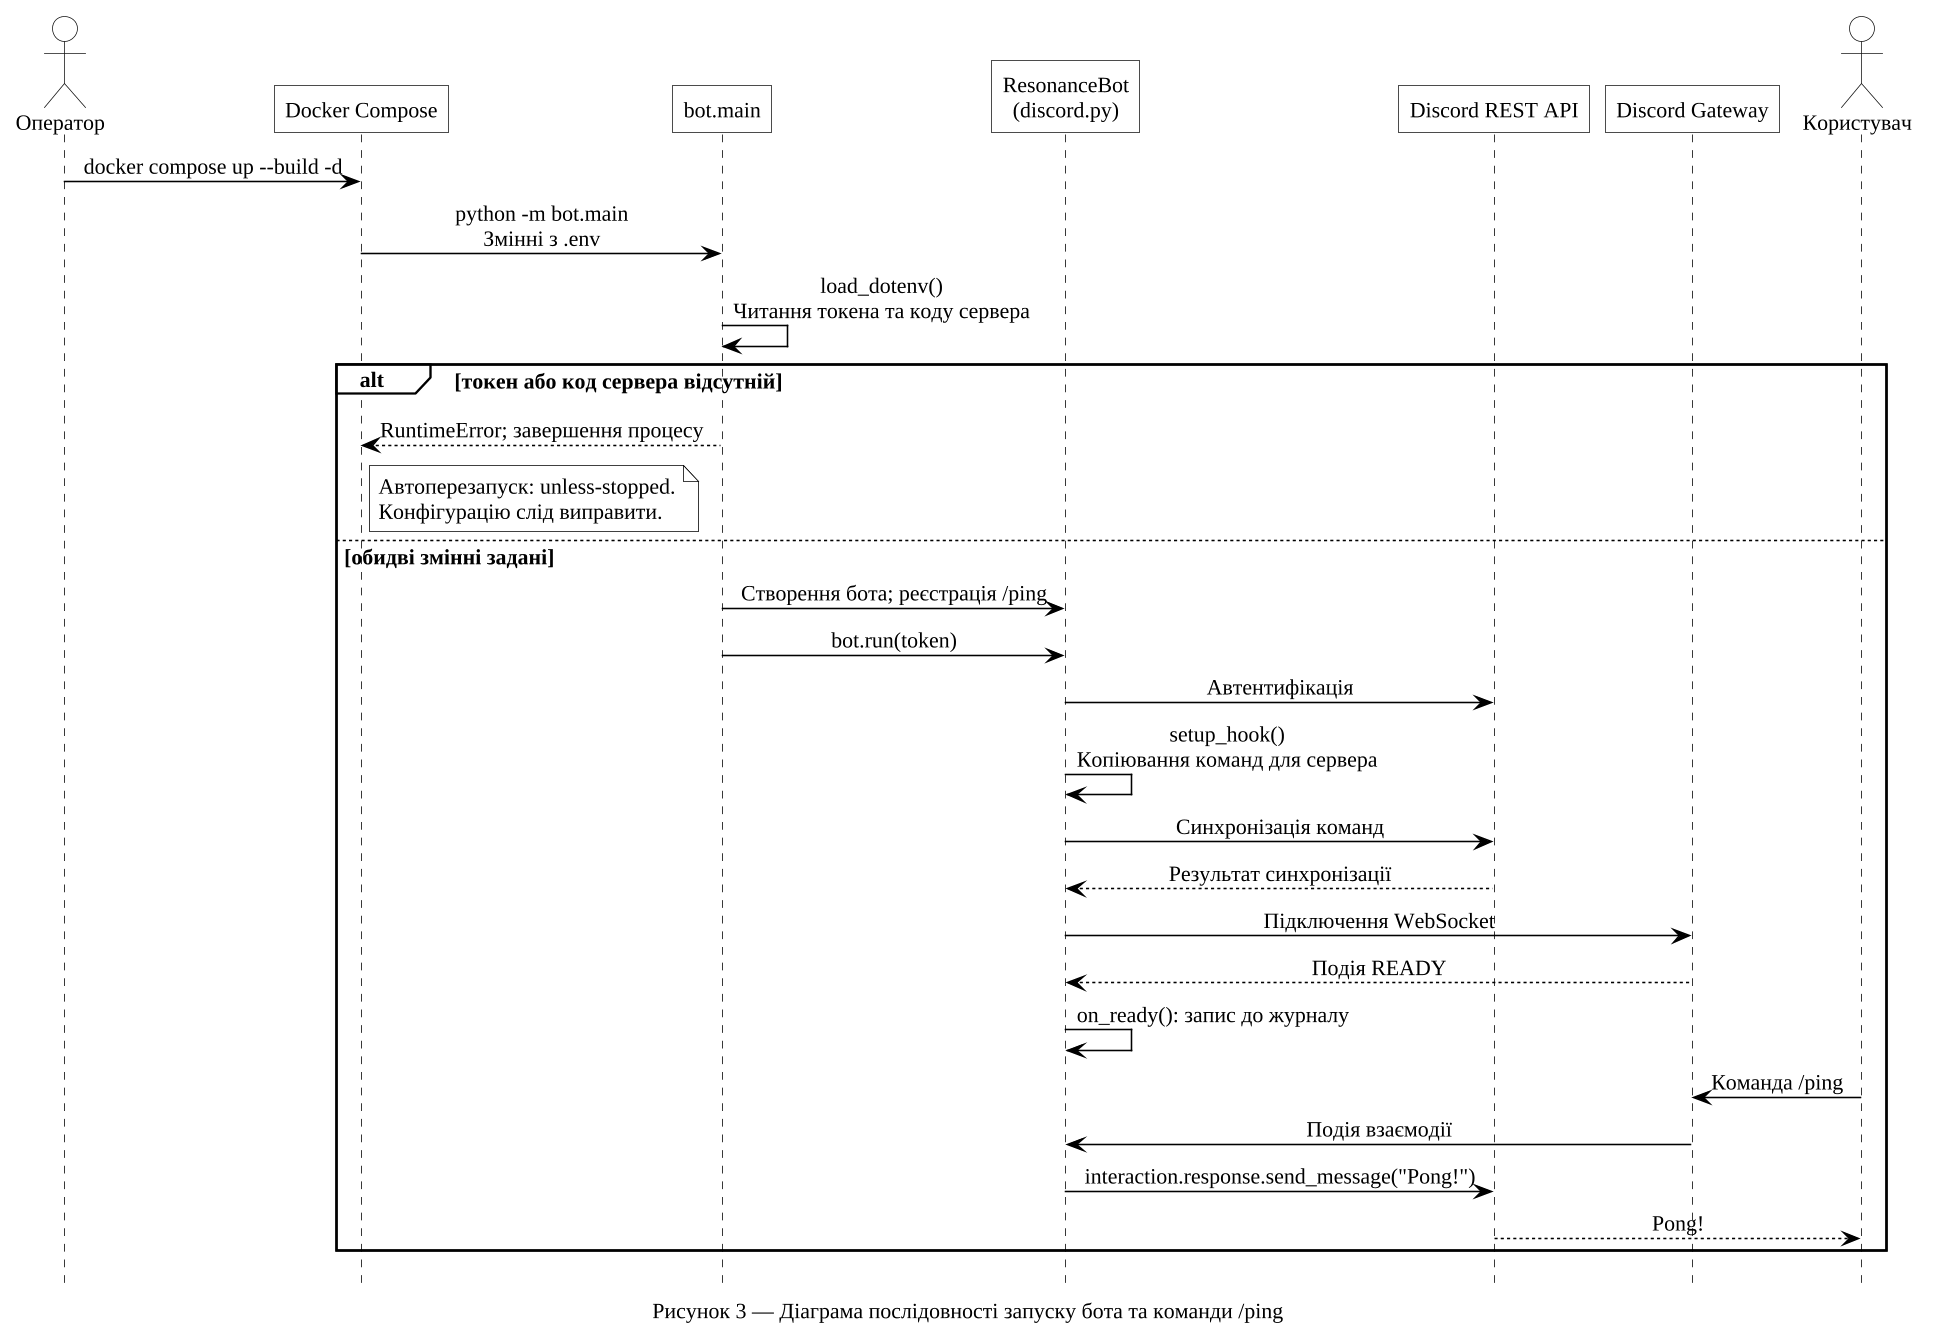
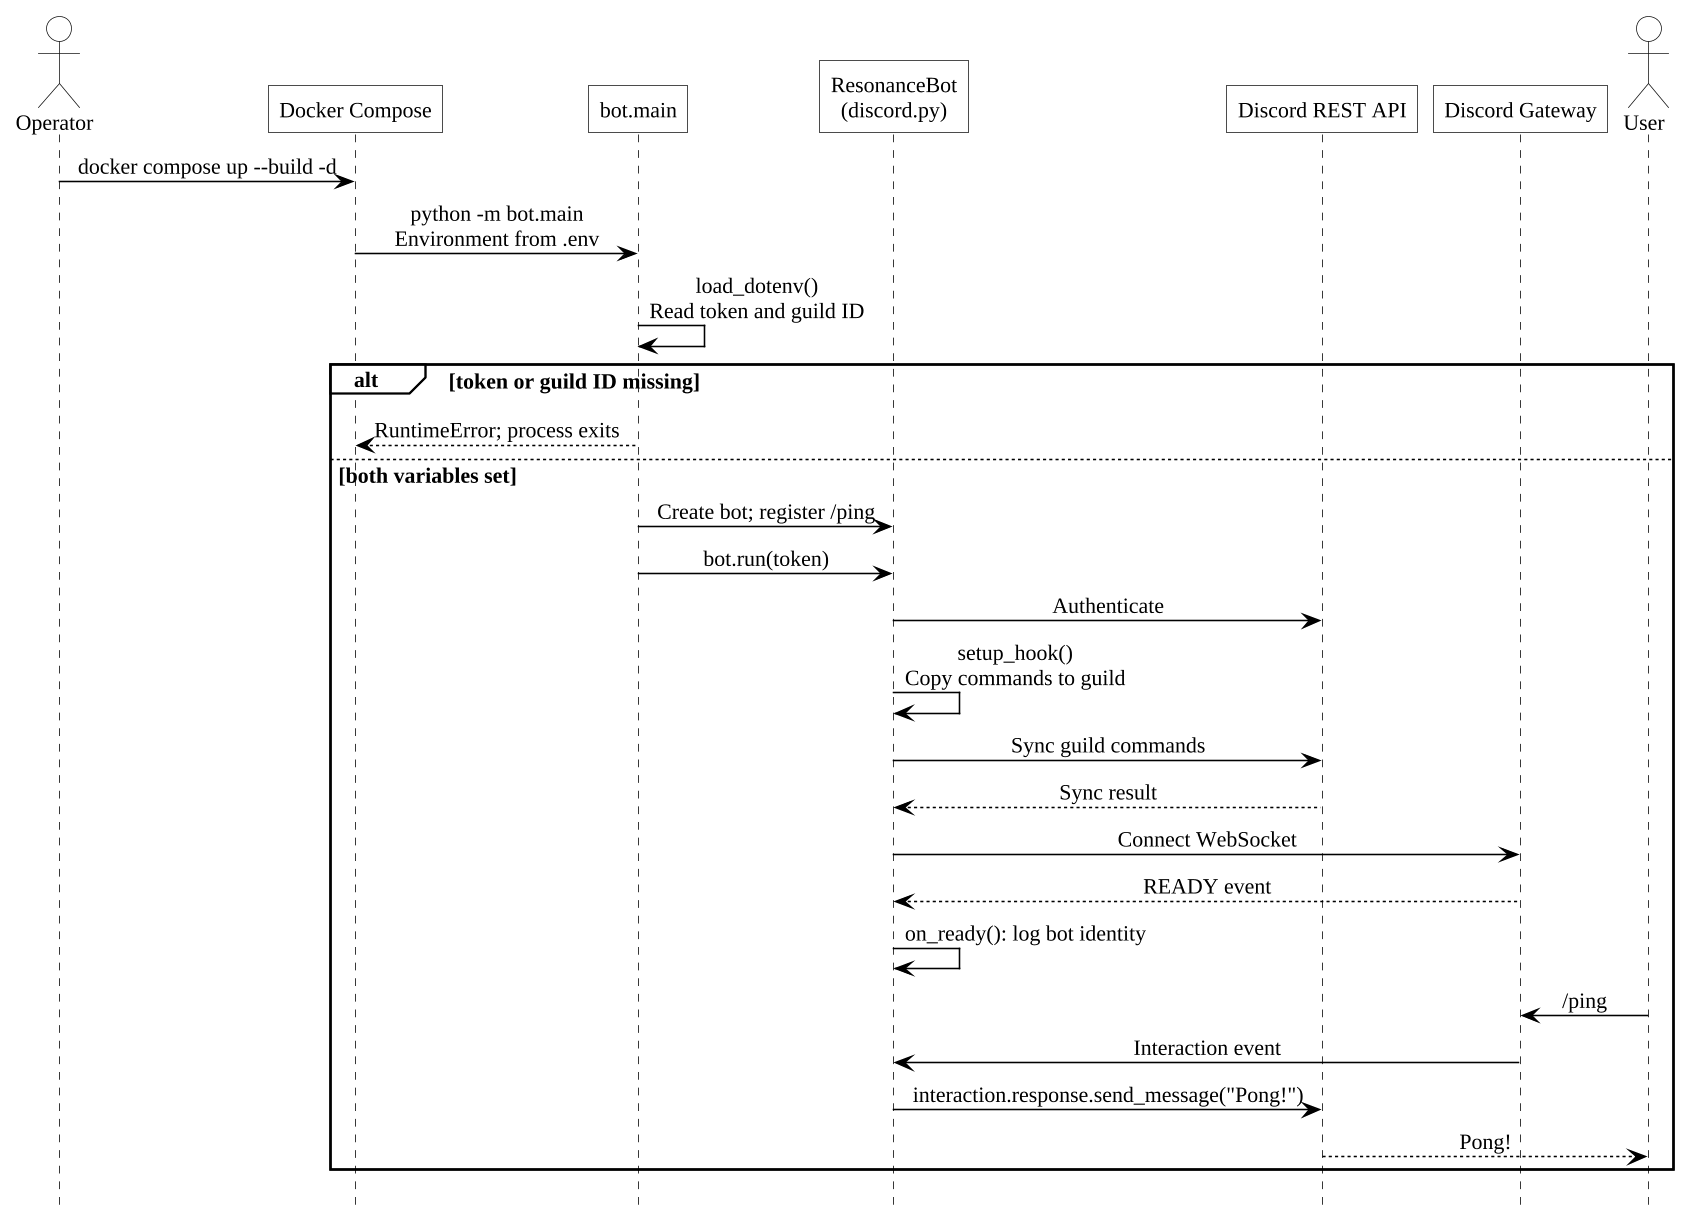
docs: use English UML labels and remove image annotations

diff --git a/docs/README.md b/docs/README.md
@@ -21,20 +21,11 @@ The container uses the actual entry point `python -m bot.main`, rather than the 
 
 Playback, file discovery, persistence services, recommendation algorithms, and CSV export remain planned. The context proposes separate listening sessions/events, but PR #26 currently stores one track playback per `listening_sessions` row. The diagram preserves the SQL branch's current design. Listening attribution, accepted recommendation semantics, evaluation dataset, and SQLCipher driver/key handling remain team decisions. No optional ChromaDB dependency is added.
 
-## Оформлення за ДСТУ
+## Diagram presentation
 
-Для оформлення рисунків застосовано [ДСТУ 3008:2015, розділ 7.5](https://itt-its.kpi.ua/wp-content/uploads/2023/10/dstu_3008-2015.pdf). Нотацію UML збережено; стандарт регламентує оформлення рисунків у звіті. Наскрізна нумерація 1–4 відповідає п. 7.5.6, а стислі назви під зображенням по центру — п. 7.5.9. Пояснення умовних познак розміщено перед підписом рисунка. Усі PNG містять підпис.
+The PNGs contain only UML elements and English labels. Figure captions, numbering, legends, and explanatory notes are excluded from the images. Add figure captions in the report document so they follow its numbering and formatting. Shared print styling (white background, black lines, Liberation Serif) is defined in `diagram-style.iuml`, which must remain beside the `.puml` files during rendering.
 
-Українські пояснення, біле тло, чорні лінії без тіней і шрифт Liberation Serif обрано для однакового друкованого оформлення. Це рішення проєкту: стандарт допускає як чорно-білі, так і кольорові рисунки. Ідентифікатори коду, таблиць та полів залишено мовою реалізації.
-
-1. Рисунок 1 — Діаграма розгортання Resonance.
-2. Рисунок 2 — Діаграма компонентів Resonance.
-3. Рисунок 3 — Діаграма послідовності запуску бота та команди /ping.
-4. Рисунок 4 — Діаграма класів структури бази даних Resonance.
-
-Під час включення до звіту рисунок слід розміщувати після першого посилання на нього або на найближчій наступній сторінці (п. 7.5.2), на одному аркуші А4 (п. 7.5.5, 7.5.10). Для широких схем оберіть альбомну орієнтацію й перевірте читабельність після масштабування. Не додавайте другий підпис, якщо він уже є у PNG. Якщо рисунки вставляються в розділ чи додаток із власною нумерацією, змініть `caption` у `.puml` та перекомпілюйте. Остаточне розміщення й нумерацію узгоджують із повним звітом та методичними вимогами кафедри.
-
-Спільне оформлення визначено у `diagram-style.iuml`; цей файл має залишатися поряд із `.puml` під час компіляції. Для відтворення шрифту потрібен встановлений Liberation Serif із підтримкою кирилиці.
+The component diagram includes planned modules; playback and persistence are not integrated yet. The deployment diagram shows the prepared voice runtime and storage layout. The database diagram follows the schema draft in PR #26; `listening_sessions` stores one track playback per row. `participant_group` accepts `participant` or `team`, session status accepts `playing`, `finished`, or `skipped`, and all foreign keys use `ON DELETE CASCADE`.
 
 ## Regenerate PNGs locally
 
